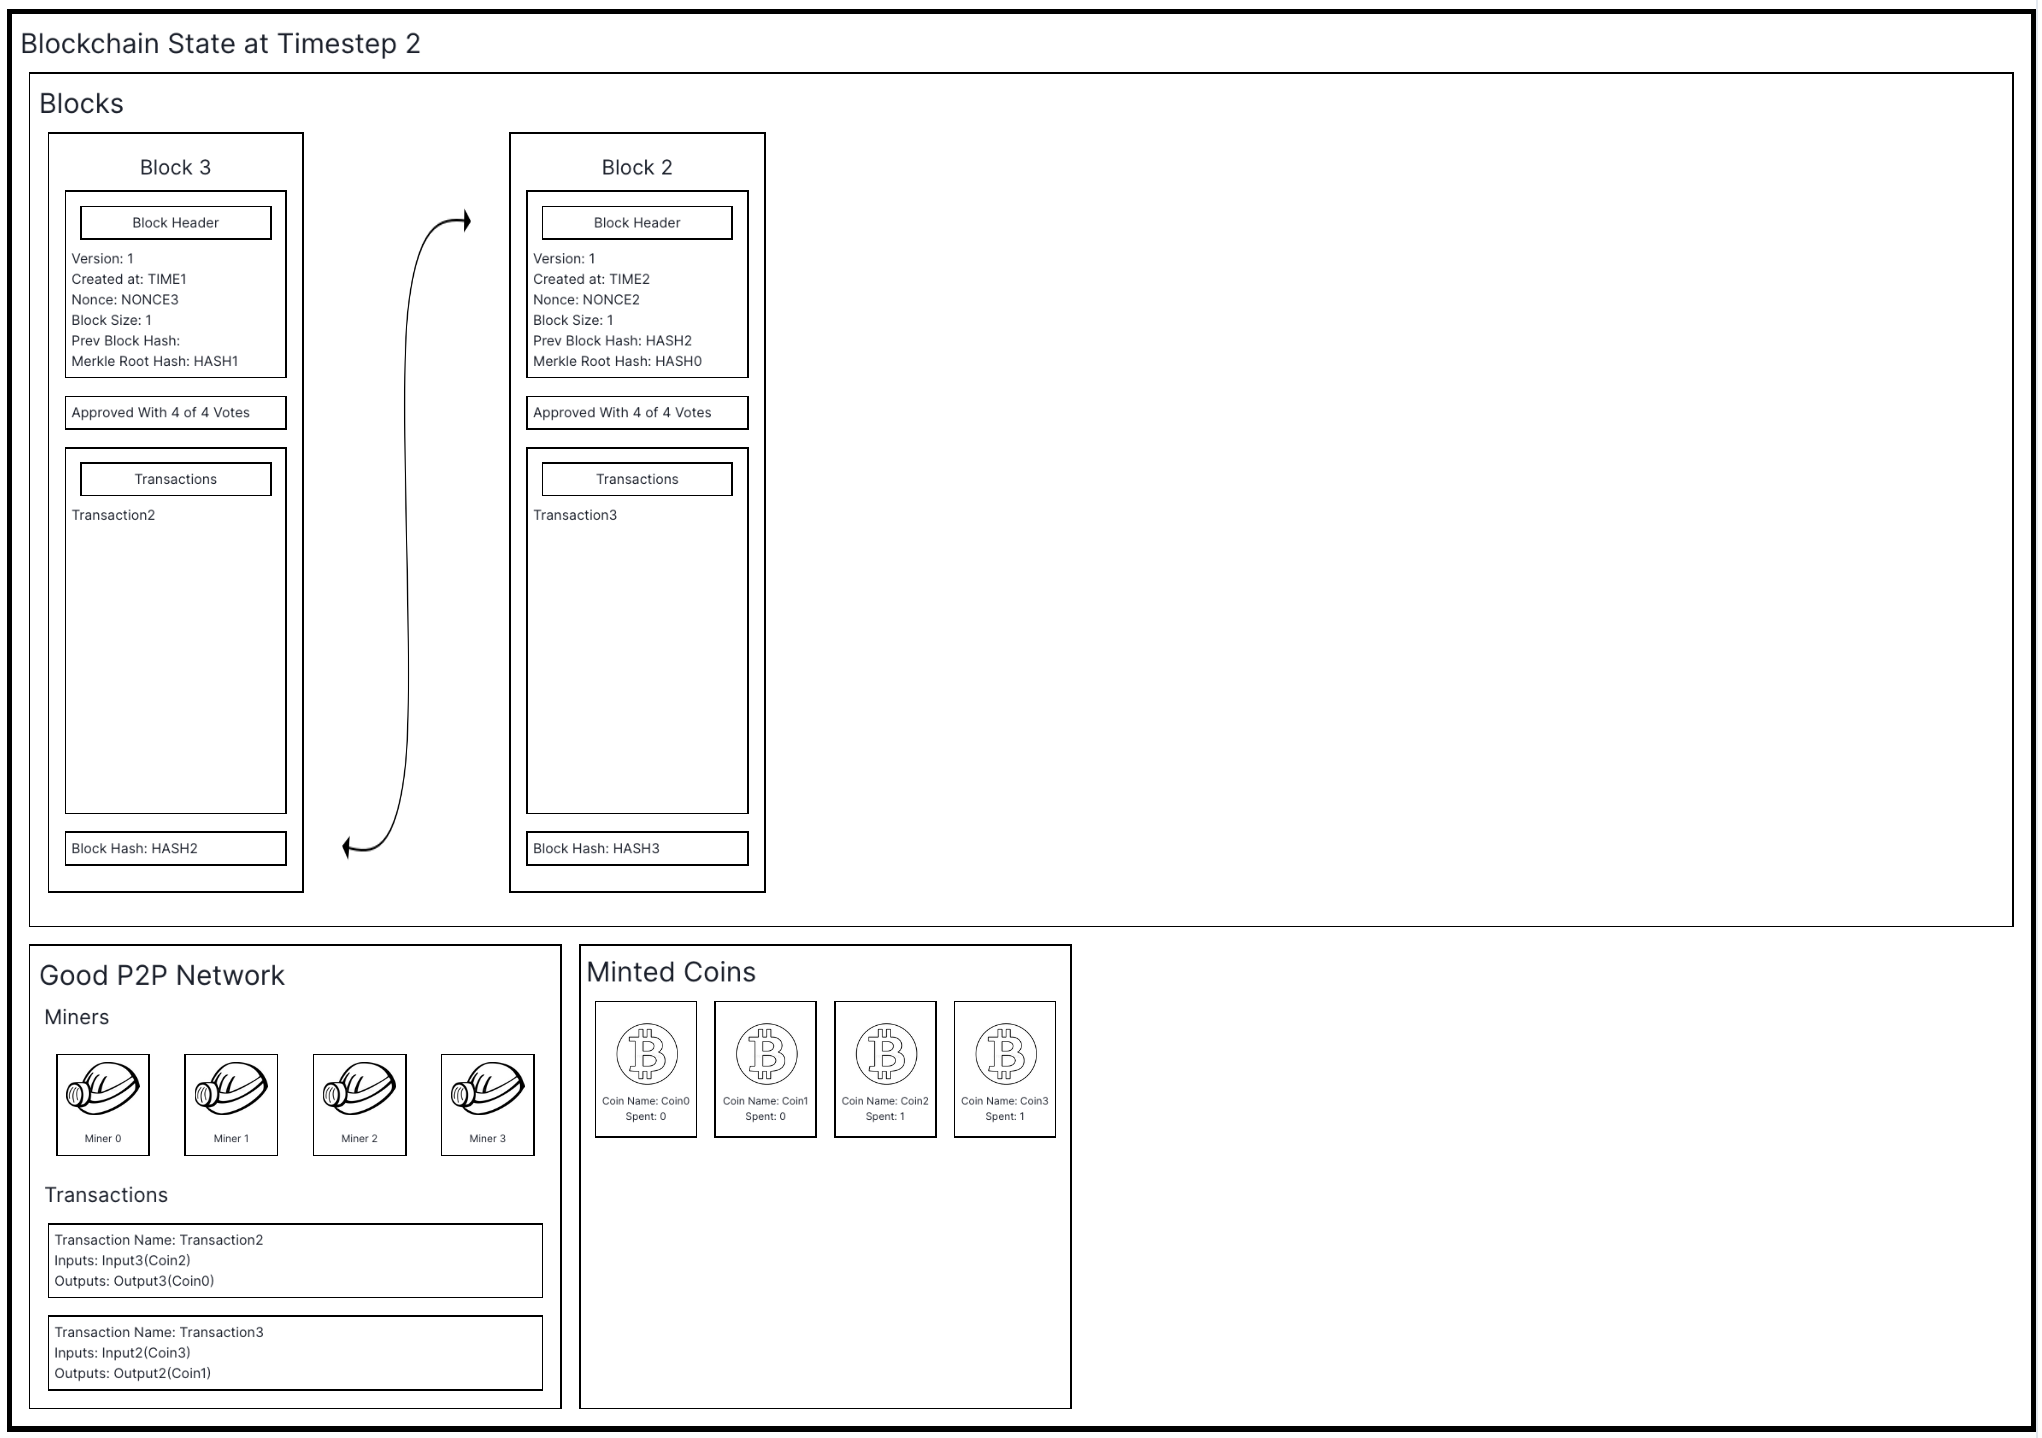
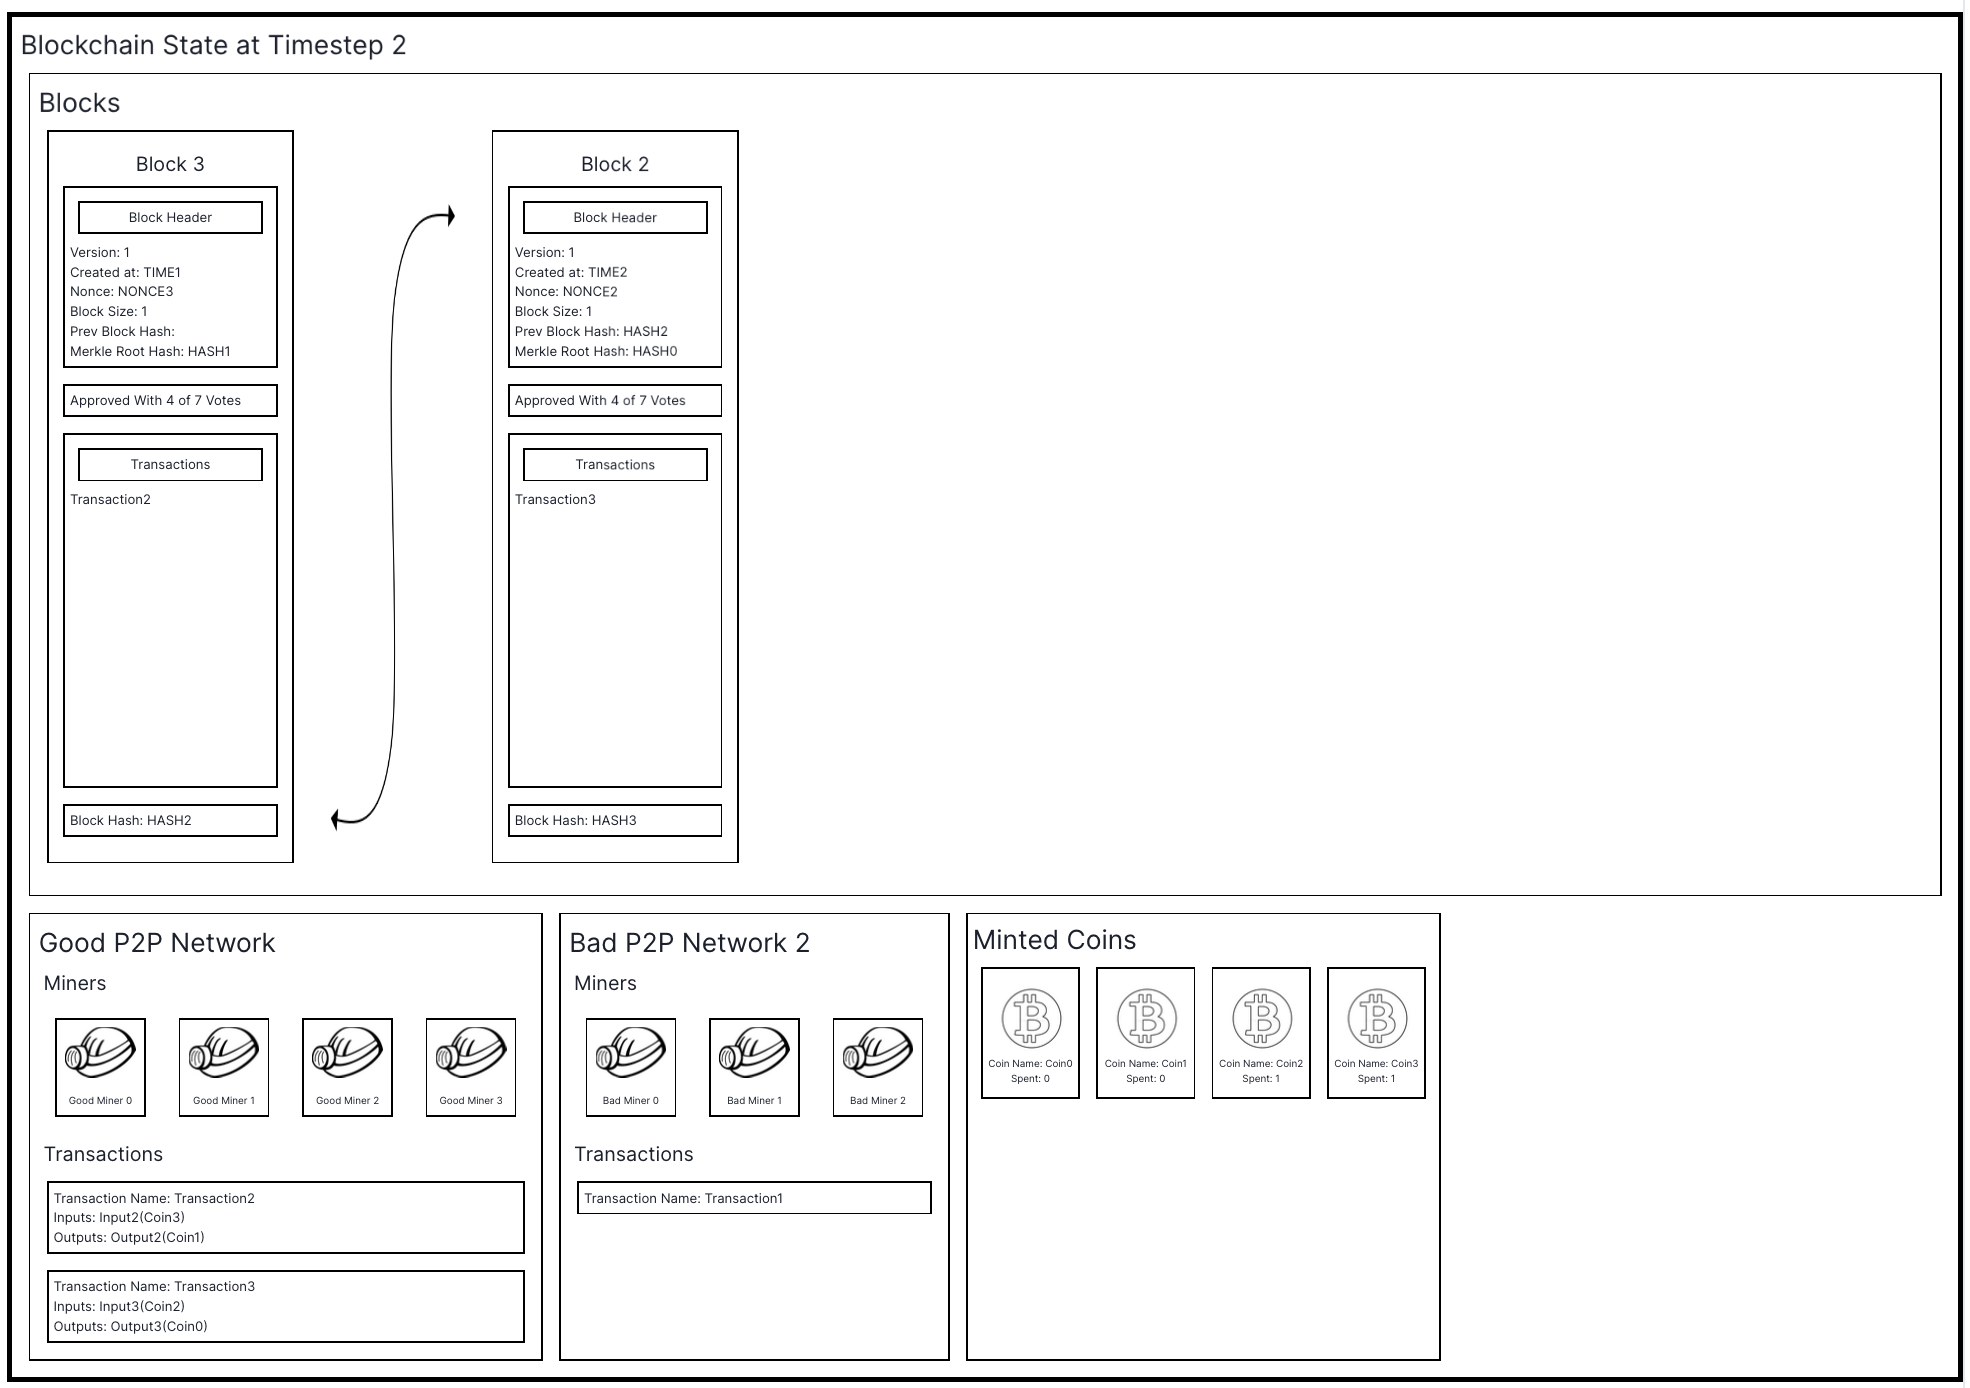
some more documentation in README

Changed region(s): [[0.0, 0.0, 1.0, 1.0], [0.2477, 0.0929, 0.3716, 0.3718]]

diff --git a/README.md b/README.md
@@ -22,13 +22,24 @@ We have documented our modeling choices in detail using in-line comments in ever
 ### Did your goals change at all from your proposal? Did you realize anything you planned was unrealistic, or that anything you thought was unrealistic was doable?
 
 ## Understanding Instances and The Visualizer
-The visualizer is a core part of our project. Without the visualizer, understanding instances is virtually impossible. The visualizer is also quite extensive and detailed and works for any trace generated using the traces predicate in chainbuilder.frg. However, one thing to note is that since our visualizer is so extensive and has so many elements, it will not look as intended and will be hard to understand unless you zoom out to 50% (or less) on most screens. After zooming out (using CTRL/CMD -) you can pinch to zoom on your trackpad to get a better look. It should look like this:
-
+The visualizer is a core part of our project. Without the visualizer, understanding instances is virtually impossible. The visualizer is also quite extensive and works for any trace generated using the predicates in chainbuilder.frg. However, one thing to note is that since our visualizer is so extensive and has so many elements, it will not look as intended and will be hard to understand unless you zoom out to 50% (or less) on most screens. After zooming out (using CTRL/CMD -) you can pinch to zoom on your trackpad to get a better look. Each state in the trace should look like this:
 
 ![alt text](https://raw.githubusercontent.com/abhinavsriram/cs1710-blockchain-fp-project/main/blockchain.png)
 
+If you run the first run statement in demonstration.frg, it will produce 3 timesteps showing a blockchain being built, above is an example from the last timestep of that run statement. 
 
-If you run the first run statement in demonstration.frg, it will produce 3 timesteps showing a blockchain being built
+#### The Blocks
+You will see that the blockchain consists of blocks (BlockX), "chained" together. Each block has a block header (Header), set of transactions (Transaction) and a block hash (HASH). The block header contains a version (which serves no purpose in our models, but could be helpful when modeling blockchains with hard forks like Ethereum), the time at which it was created, its NONCE, the block size, the previous block hash (which will be blank for the first block) and a merkle root hash (which again, serves no purpose in our models but could be useful for more advanced verification). The set of transactions is exactly what you expect and the block hash is unique to each block. 
+
+#### Consensus
+Each block in the above picture also has a box that says "Approved With 4 of 7 Votes". This box must always say "Approved" for any block on the blockchain. When a block says "Approved" it means miners have reached consensus on that block and have agreed to add it to the chain. If a block ever says "Not Approved" and is part of the chain then our model is broken. This box also shows how many votes the block recieved. In this case, the block received 4 votes out of a possible 7, all 4 votes are from good miners (desrcibed below). A block is added to the chain IFF a majority of miners vote for the block and a miner votes for the block when all the transactions in the block are also in the miner's network.
+
+#### The Peer to Peer (P2P) Networks and Miners
+In the above screenshot, there is one Good P2P Network and one Bad P2P Network. P2P Networks are either Good P2P Networks or Bad P2P Networks and there is only ever one Good P2P Network but there can be an arbitrary number of Bad P2P Networks.
+
+#### Transactions and Coins
+
+#### The Minted Coins
 
 ## Tests, Verification and Limitations
 
